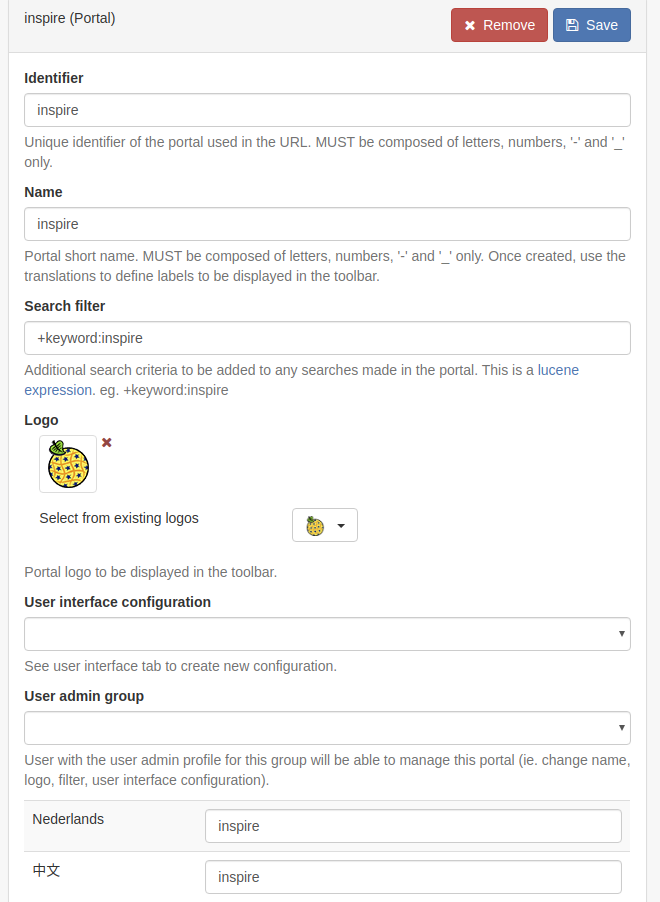
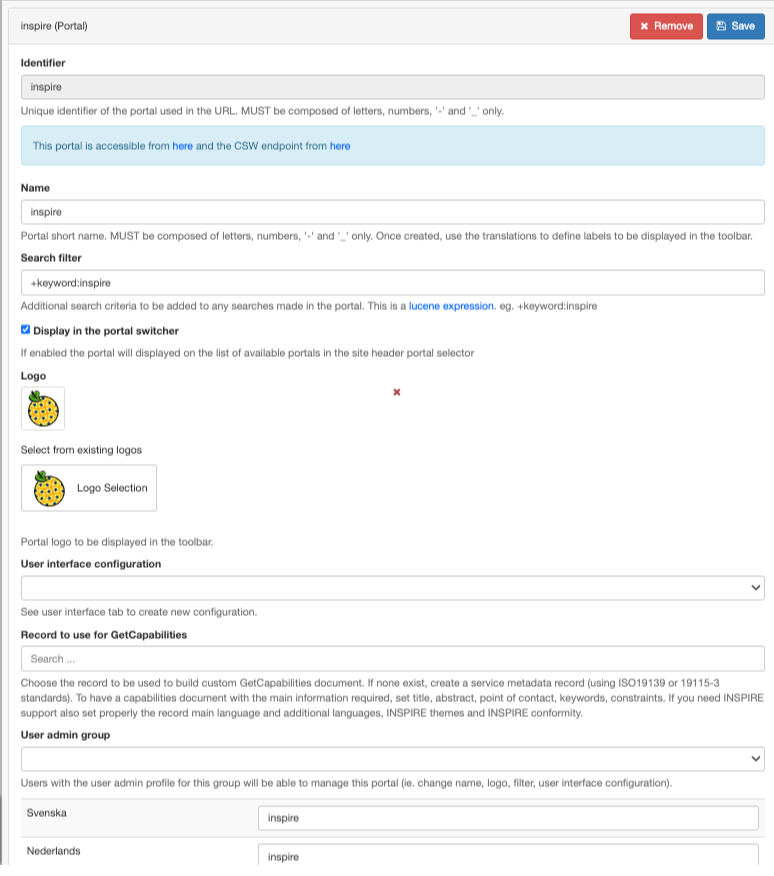
Setting for showing/hiding the portal from the toopbar
Update the docs to include the new functionality that allows to show/hide
the portal in the portal switcher located in the top toolbar.

See https://github.com/geonetwork/core-geonetwork/pull/6674.

diff --git a/source/administrator-guide/configuring-the-catalog/portal-configuration.rst b/source/administrator-guide/configuring-the-catalog/portal-configuration.rst
@@ -49,7 +49,7 @@ matching the filter defined for this sub-portal. The ``search filter`` parameter
 User privileges apply as in the main instance.
 
 
-The logo and name of the sub-portal will be displayed instead of the main instance information:
+The logo and name of the sub-portal will be displayed instead of the main instance information in case the option ``Display in the portal switcher`` is selected:
 
 .. figure:: img/portal-header.png
 
